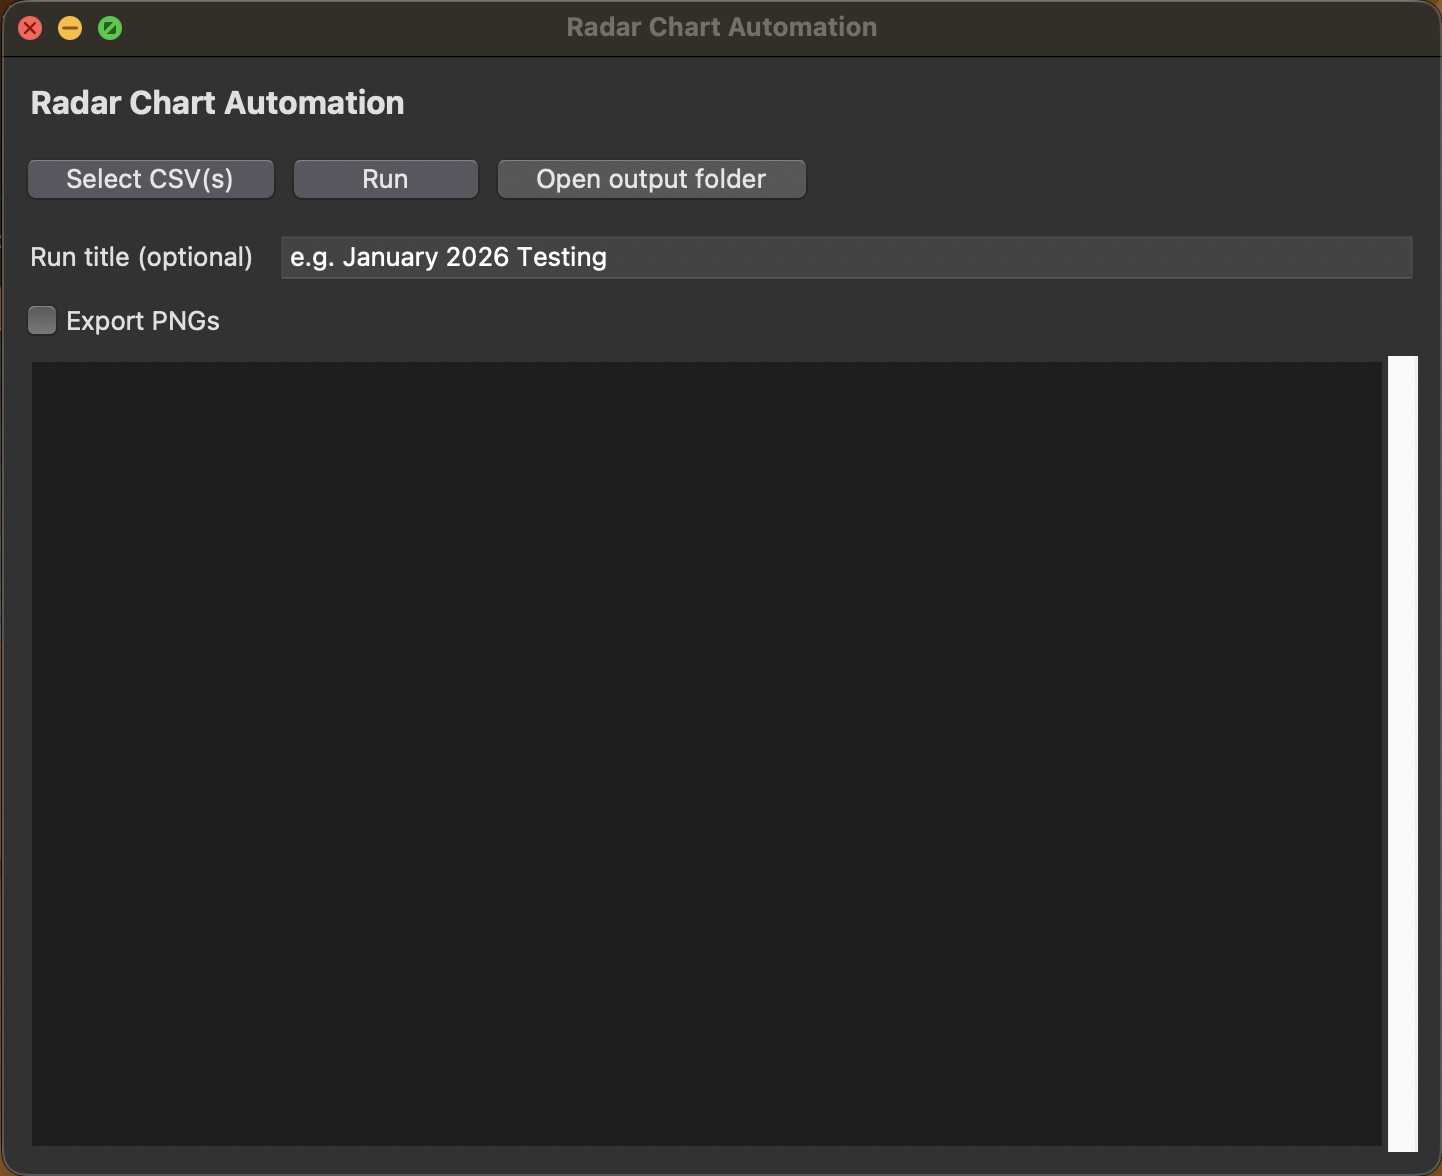
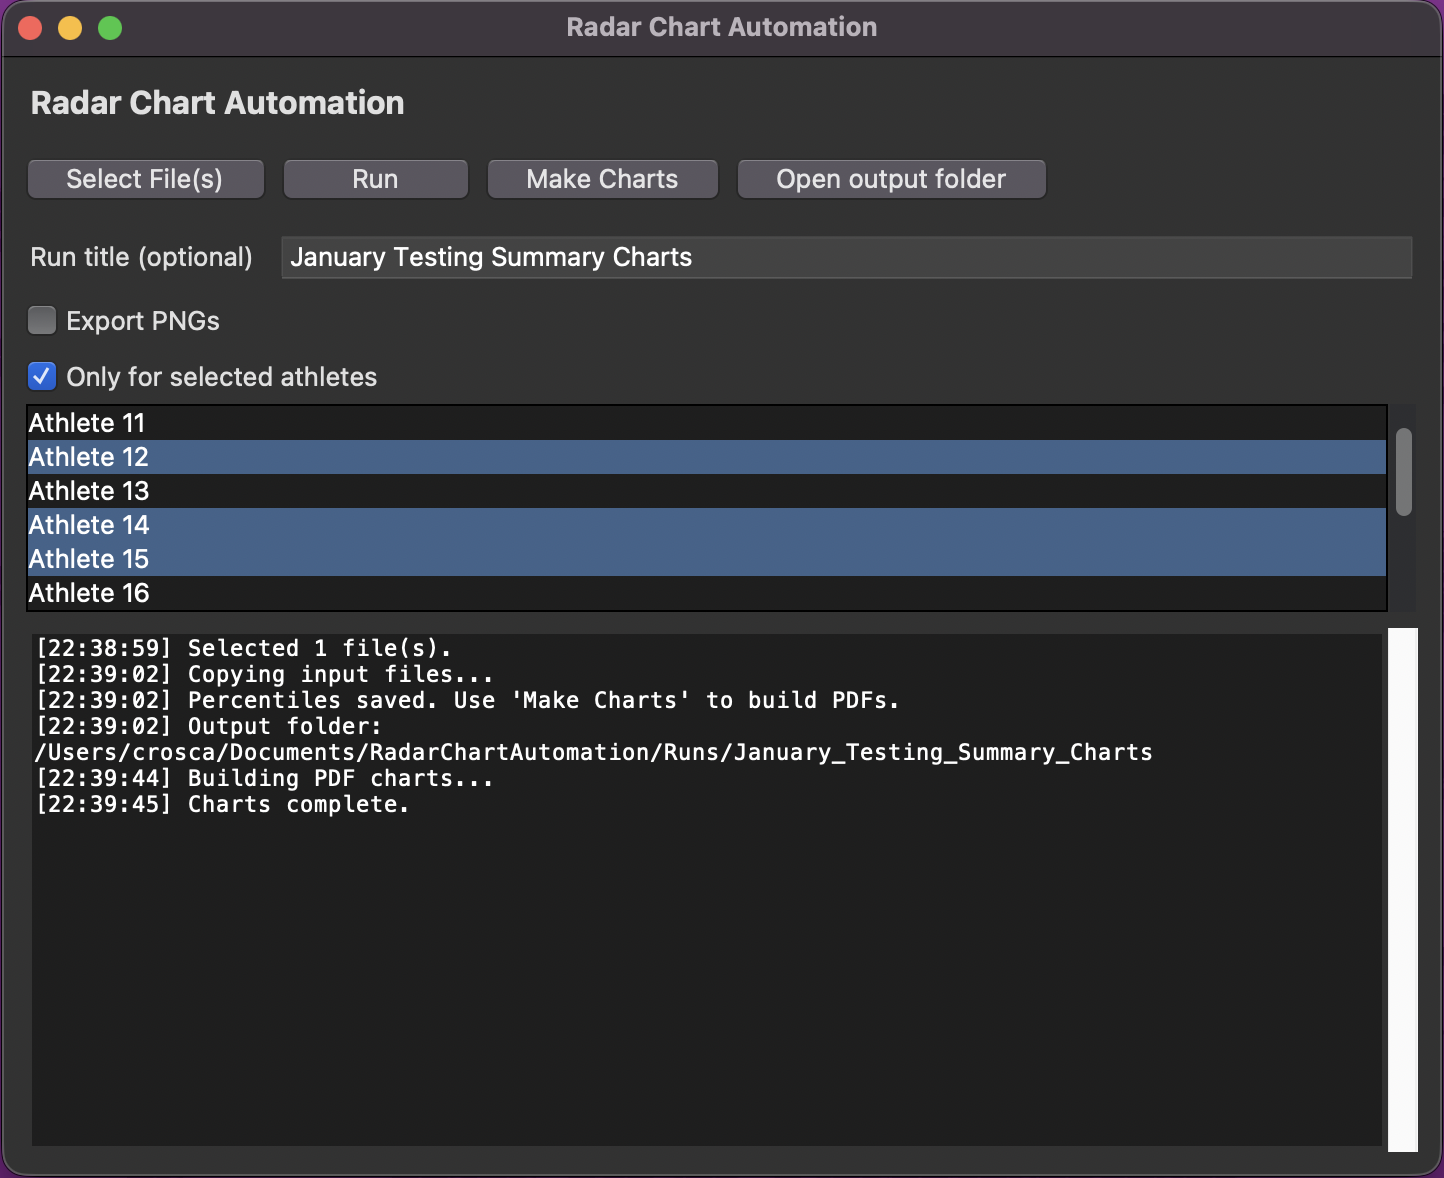
Split run and chart generation

diff --git a/radar_chart_automation/app.py b/radar_chart_automation/app.py
@@ -24,6 +24,7 @@ class RadarChartApp(tk.Tk):
 
         self.selected_files = []
         self.last_run_folder = None
+        self.athlete_names = []
 
         self._build_ui()
 
@@ -43,6 +44,9 @@ class RadarChartApp(tk.Tk):
         self.run_button = ttk.Button(button_frame, text="Run", command=self.run_processing)
         self.run_button.pack(side=tk.LEFT, padx=(8, 0))
 
+        self.make_charts_button = ttk.Button(button_frame, text="Make Charts", command=self.make_charts)
+        self.make_charts_button.pack(side=tk.LEFT, padx=(8, 0))
+
         self.open_button = ttk.Button(button_frame, text="Open output folder", command=self.open_output_folder)
         self.open_button.pack(side=tk.LEFT, padx=(8, 0))
         self.open_button.state(["disabled"])
@@ -60,6 +64,26 @@ class RadarChartApp(tk.Tk):
             frame, text="Export PNGs", variable=self.export_png_var
         )
         self.export_png_check.pack(anchor=tk.W, pady=(4, 8))
+
+        self.selected_only_var = tk.BooleanVar(value=False)
+        self.selected_only_check = ttk.Checkbutton(
+            frame,
+            text="Only for selected athletes",
+            variable=self.selected_only_var,
+            command=self._toggle_athlete_list,
+        )
+        self.selected_only_check.pack(anchor=tk.W)
+
+        athlete_frame = ttk.Frame(frame)
+        athlete_frame.pack(fill=tk.BOTH, pady=(4, 8))
+        self.athlete_listbox = tk.Listbox(
+            athlete_frame, height=6, selectmode=tk.MULTIPLE, exportselection=False
+        )
+        scrollbar = ttk.Scrollbar(athlete_frame, orient=tk.VERTICAL, command=self.athlete_listbox.yview)
+        self.athlete_listbox.configure(yscrollcommand=scrollbar.set)
+        self.athlete_listbox.pack(side=tk.LEFT, fill=tk.BOTH, expand=True)
+        scrollbar.pack(side=tk.RIGHT, fill=tk.Y)
+        self._set_athlete_list_state(enabled=False)
 
         self.status_area = ScrolledText(frame, height=18, wrap=tk.WORD, state=tk.DISABLED)
         self.status_area.pack(fill=tk.BOTH, expand=True)
@@ -87,6 +111,21 @@ class RadarChartApp(tk.Tk):
         if files:
             self.selected_files = list(files)
             self.log_status(f"Selected {len(files)} file(s).")
+
+    def _set_athlete_list_state(self, *, enabled: bool):
+        state = tk.NORMAL if enabled else tk.DISABLED
+        self.athlete_listbox.configure(state=state)
+
+    def _toggle_athlete_list(self):
+        self._set_athlete_list_state(enabled=self.selected_only_var.get())
+
+    def _update_athlete_list(self, athletes):
+        self.athlete_listbox.configure(state=tk.NORMAL)
+        self.athlete_listbox.delete(0, tk.END)
+        for name in athletes:
+            self.athlete_listbox.insert(tk.END, name)
+        if not self.selected_only_var.get():
+            self._set_athlete_list_state(enabled=False)
 
     def open_output_folder(self):
         if not self.last_run_folder:
@@ -116,7 +155,7 @@ class RadarChartApp(tk.Tk):
 
     def run_processing(self):
         if not self.selected_files:
-            messagebox.showerror("Missing files", "Please select one or more CSV files.")
+            messagebox.showerror("Missing files", "Please select one or more files.")
             return
 
         run_title_input = self.run_title_entry.get().strip()
@@ -139,7 +178,6 @@ class RadarChartApp(tk.Tk):
         long_frames = []
         wide_frames = []
         date_labels = []
-        athlete_date_values = {}
 
         try:
             for path in self.selected_files:
@@ -155,23 +193,11 @@ class RadarChartApp(tk.Tk):
                 logger.info("Date label for %s: %s", path, date_label)
 
                 long_df, wide_df = percentiles.compute_percentiles(df, mapping)
-                long_df["test_date_label"] = date_label
-                wide_df["test_date_label"] = date_label
+                long_df["metrics_pull_date_label"] = date_label
+                wide_df["metrics_pull_date_label"] = date_label
 
                 long_frames.append(long_df)
                 wide_frames.append(wide_df)
-
-                for _, row in wide_df.iterrows():
-                    athlete = row["athlete_name"]
-                    values = [
-                        row["Jump Height percentile"],
-                        row["Triple Ext percentile"],
-                        row["Elasticity percentile"],
-                        row["Loading percentile"],
-                        row["Braking percentile"],
-                    ]
-                    values = [float(v) * 100 for v in values]
-                    athlete_date_values.setdefault(athlete, {})[date_label] = values
 
                 logger.info("Processed %s athletes for %s", len(wide_df), date_label)
 
@@ -181,31 +207,89 @@ class RadarChartApp(tk.Tk):
             long_all.to_csv(os.path.join(run_paths.percentiles, "percentiles_long.csv"), index=False)
             wide_all.to_csv(os.path.join(run_paths.percentiles, "percentiles_wide.csv"), index=False)
 
-            self.log_status("Building PDF charts...")
-            pdf_name = f"{os.path.basename(run_paths.base)}__radars.pdf"
-            pdf_path = os.path.join(run_paths.outputs, pdf_name)
-
-            with PdfPages(pdf_path) as pdf:
-                for athlete, date_map in athlete_date_values.items():
-                    ordered_map = {label: date_map[label] for label in date_labels if label in date_map}
-                    fig = radar_plot.build_radar_figure(athlete, ordered_map)
-                    pdf.savefig(fig)
-                    if self.export_png_var.get():
-                        png_dir = os.path.join(run_paths.outputs, "png")
-                        os.makedirs(png_dir, exist_ok=True)
-                        filename = utils.sanitize_filename(athlete) + ".png"
-                        fig.savefig(os.path.join(png_dir, filename), dpi=150)
-                    plt_close(fig)
-
             self.last_run_folder = run_paths.base
+            self.athlete_names = sorted(wide_all["athlete_name"].unique().tolist())
+            self._update_athlete_list(self.athlete_names)
             self.open_button.state(["!disabled"])
-            self.log_status("Run complete.")
+            self.log_status("Percentiles saved. Use 'Make Charts' to build PDFs.")
             self.log_status(f"Output folder: {run_paths.base}")
         except Exception as exc:
             logger.error("Run failed: %s", exc)
             logger.error(traceback.format_exc())
             messagebox.showerror("Error", str(exc))
             self.log_status(f"Error: {exc}")
+
+    def make_charts(self):
+        if not self.last_run_folder:
+            messagebox.showerror("Run required", "Please click Run first to create percentiles.")
+            return
+
+        percentiles_path = os.path.join(
+            self.last_run_folder, "02_percentiles", "percentiles_wide.csv"
+        )
+        if not os.path.exists(percentiles_path):
+            messagebox.showerror("Missing percentiles", "Percentiles file not found. Please click Run first.")
+            return
+
+        wide_all = pd.read_csv(percentiles_path)
+        label_col = "metrics_pull_date_label"
+        if label_col not in wide_all.columns:
+            label_col = "test_date_label"
+        if label_col not in wide_all.columns:
+            raise ValueError("Missing Metrics Pull Date column in percentiles.")
+
+        date_labels = list(dict.fromkeys(wide_all[label_col].tolist()))
+
+        athlete_date_values = {}
+        for _, row in wide_all.iterrows():
+            athlete = row["athlete_name"]
+            date_label = row[label_col]
+            values = [
+                row["Jump Height percentile"],
+                row["Triple Ext percentile"],
+                row["Elasticity percentile"],
+                row["Loading percentile"],
+                row["Braking percentile"],
+            ]
+            values = [float(v) * 100 for v in values]
+            athlete_date_values.setdefault(athlete, {})[date_label] = values
+
+        selected_athletes = None
+        if self.selected_only_var.get():
+            selected_indices = self.athlete_listbox.curselection()
+            if not selected_indices:
+                messagebox.showerror(
+                    "No athletes selected",
+                    "Select one or more athletes or uncheck 'Only for selected athletes'.",
+                )
+                return
+            selected_athletes = {self.athlete_listbox.get(i) for i in selected_indices}
+
+        run_title_input = self.run_title_entry.get().strip()
+        user_provided_title = run_title_input and not run_title_input.startswith("e.g.")
+        if user_provided_title:
+            pdf_base = utils.sanitize_title(run_title_input)
+            pdf_name = f"{pdf_base}__radars.pdf"
+        else:
+            pdf_name = f"{os.path.basename(self.last_run_folder)}__radars.pdf"
+        pdf_path = os.path.join(self.last_run_folder, "03_outputs", pdf_name)
+
+        self.log_status("Building PDF charts...")
+        with PdfPages(pdf_path) as pdf:
+            for athlete, date_map in athlete_date_values.items():
+                if selected_athletes is not None and athlete not in selected_athletes:
+                    continue
+                ordered_map = {label: date_map[label] for label in date_labels if label in date_map}
+                fig = radar_plot.build_radar_figure(athlete, ordered_map)
+                pdf.savefig(fig)
+                if self.export_png_var.get():
+                    png_dir = os.path.join(self.last_run_folder, "03_outputs", "png")
+                    os.makedirs(png_dir, exist_ok=True)
+                    filename = utils.sanitize_filename(athlete) + ".png"
+                    fig.savefig(os.path.join(png_dir, filename), dpi=150)
+                plt_close(fig)
+
+        self.log_status("Charts complete.")
 
     def _load_with_mapping(self, path: str):
         try:

diff --git a/README.md b/README.md
@@ -13,11 +13,13 @@ On first launch, macOS may block the app because it’s not notarized. Use Contr
 
 ## Quick start (end users)
 1. Open the app (.app on macOS or .exe on Windows).
-2. Click **Select CSV(s)** and choose one or more Teamworks exports (one date per CSV).
-3. (Optional) Enter a **Run title**.
+2. Click **Select File(s)** and choose one or more Teamworks exports (one date per file).
+3. (Optional) Enter a **Run title** (can be filled in before clicking **Make Charts**).
 4. (Optional) check **Export PNGs**.
-5. Click **Run**.
-6. Click **Open output folder** and print the PDF.
+5. Click **Run** (this creates the percentile files only).
+6. (Optional) check **Only for selected athletes** and select names from the list.
+7. Click **Make Charts** to generate the PDF/PNGs.
+8. Click **Open output folder** and print the PDF.
 
 ## Inputs
 - One CSV or Excel file per Metrics Pull Date (Teamworks AMS export).
@@ -34,7 +36,7 @@ On first launch, macOS may block the app because it’s not notarized. Use Contr
 - Each run creates:
   - `01_raw_input/` (copied CSVs)
   - `02_percentiles/` (long + wide percentile CSVs)
-  - `03_outputs/` (multi-page PDF + optional PNGs)
+  - `03_outputs/` (multi-page PDF + optional PNGs, created by **Make Charts**)
   - `logs/` (run log)
 - Multi-page PDF is Letter (8.5x11) and print-ready.
 
